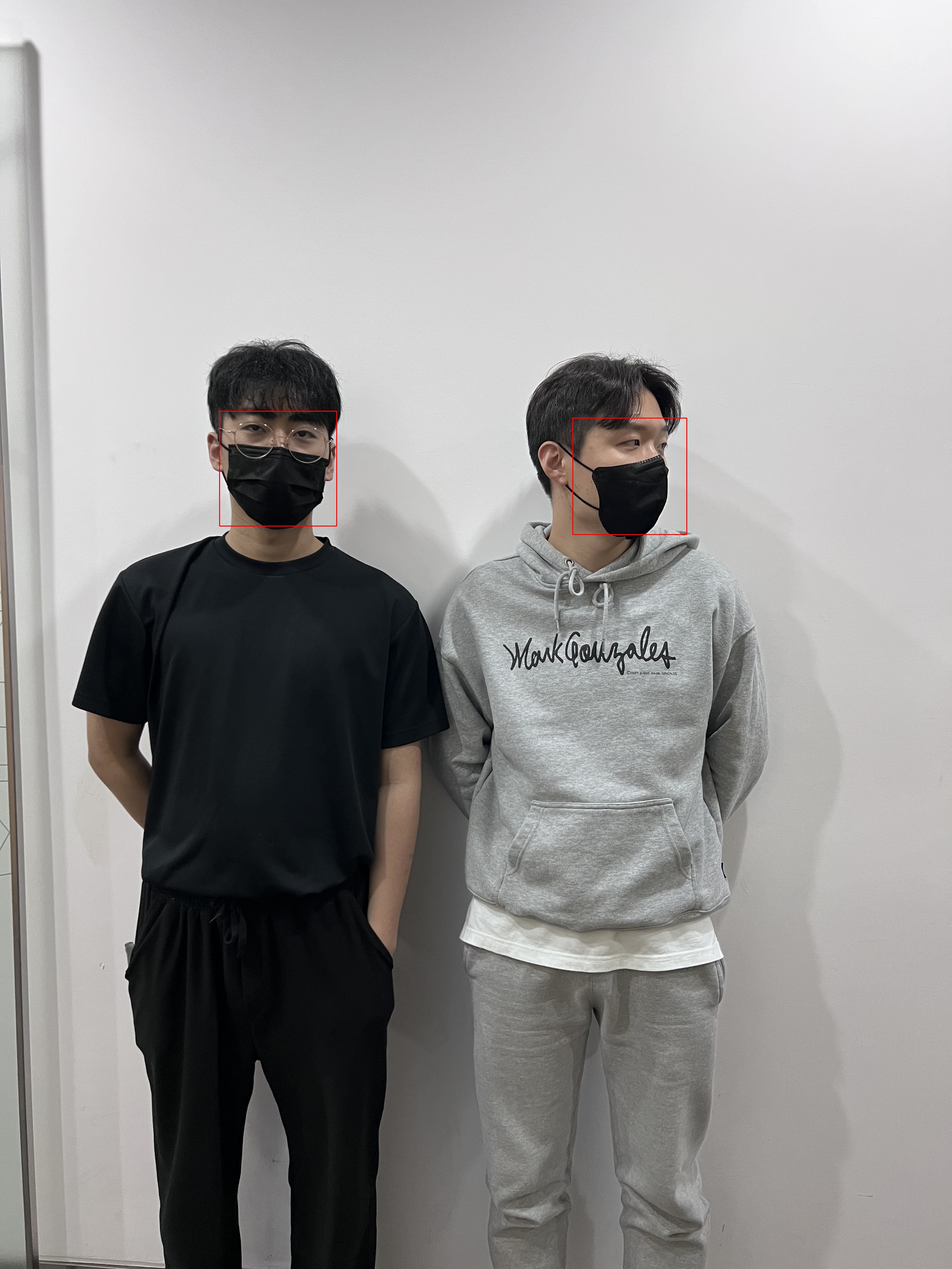
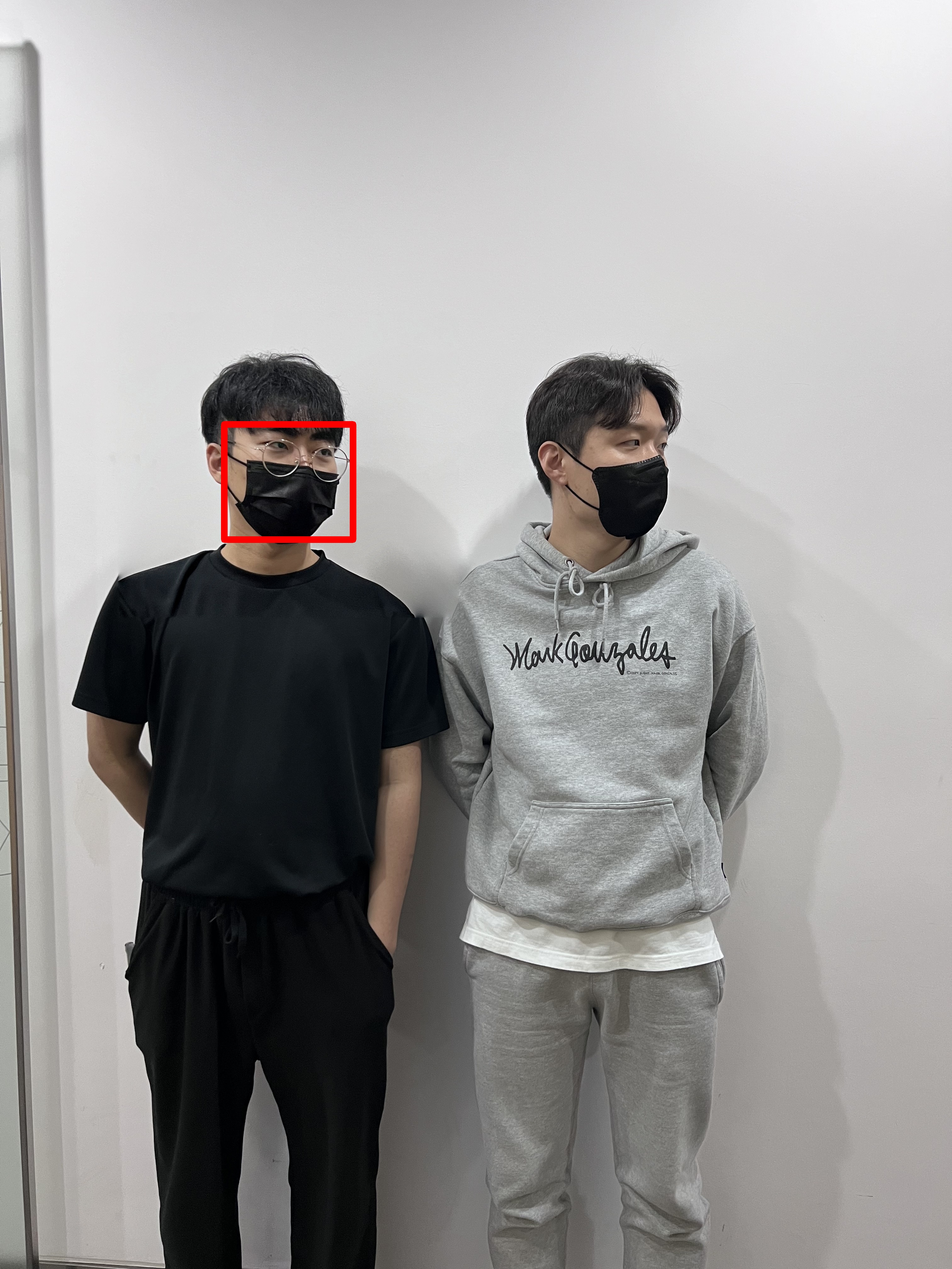
ML, front Updated

Changed region(s): [[0.1243, 0.25, 0.4663, 0.5]]

diff --git a/frontend/src/screens/Login.js b/frontend/src/screens/Login.js
@@ -12,12 +12,13 @@ import BG from '../../assets/splash.webp';
 import { PRIMARY } from '../colors';
 import { LogBox } from 'react-native';
 import axios from 'axios';
+import { flask_API } from '../AWS';
 
 LogBox.ignoreLogs([
   "[Reanimated] Couldn't determine the version of the native part of Reanimated.",
 ]);
 const Login = () => {
-  var url = 'http://172.23.253.115:5000/';
+  var url = flask_API;
 
   const [username, setUsername] = useState('');
   const [password, setPassword] = useState('');

diff --git a/ML/app.py b/ML/app.py
@@ -21,11 +21,12 @@ path_face = "images/faces_separated/"  # 얼굴 이미지 저장 경로
 path_result = "images/result_img/"  # 결과물 이미지 저장 경로
 path_boxed = "images/boxed_img/"  # 박스처리 이미지 저장 경로
 path_face_num = "images/face_num/"  # 얼굴 이미지 저장 경로
+path_pageIndex = "images/pageIndex/"  # 몇번째 얼굴 편집중인지 전달 받기위한 폴더 경로
 
 # 현우 수정
 selected_face_path = "images/want_to_modify/"  # 대체할 얼굴 이름 저장
 
-cf_names, cf_coordinates = [], []
+cf_names, cf_coordinates, main_full_coordinates, cropped_face_full_coordinates, cur, sel_idx = [], [], [], [], 0, 0
 
 
 # 로컬 폴더 정리 함수
@@ -74,9 +75,17 @@ def init_dirs():
     for file in file_list:
         os.remove(path_face_num + file)
 
+    if not os.path.isdir(path_pageIndex):
+        os.mkdir(path_pageIndex)
+    file_list = os.listdir(path_pageIndex)
+    for file in file_list:
+        os.remove(path_pageIndex + file)
+
 
 # AWS로부터 대표사진 및 선택된 사진들 불러오는 함수
 def download_from_aws():
+    global cur
+    cur = 0
     print('Collecting images')
     di = CloudPath(aws_path+"selected_imgs/")
     di.download_to(path_selected_img)
@@ -88,11 +97,6 @@ def download_from_aws():
 
     main.download_to(path_result)
     os.rename(path_result+os.listdir(path_result)[0], path_result+'result.jpg')
-
-    # 현우 수정
-    draw_face.main()
-    upload_boxed_result_to_aws()
-    print('\nred box upload completed')
 
 
 # AWS로 얼굴 사진들 업로드하는 함수
@@ -139,6 +143,8 @@ def remove_dirs():
     ri.rmtree()
     ri = CloudPath(aws_path+"pageIndex/")
     ri.rmtree()
+    ri = CloudPath(aws_path+"want_to_modify/")
+    ri.rmtree()
     print('\nRemoval Completed')
     return "FLASK: Cleanup_AWS Done"
 
@@ -160,41 +166,58 @@ def check_uploads():
 # 얼굴 crop 하고 AWS에 저장하는 함수
 @ app.route('/crop_face', methods=['GET'])
 def crop_face():
-    global cf_names, cf_coordinates
+    global cf_names, cf_coordinates, main_full_coordinates, cropped_face_full_coordinates
     init_dirs()
     download_from_aws()
     # 불러온 사진으로부터 얼굴들만 추출하여 cf_names 에 이름들, cf_coordinates에 시작좌표들 저장
-    cf_names, cf_coordinates = detect_faces_masks.main()
+    cf_names, cf_coordinates, main_full_coordinates, cropped_face_full_coordinates = detect_faces_masks.main()
+
+    draw_box(0)
 
     upload_cropped_faces()
     return "FLASK: Crop Face Done"
 
 
-# 현우 수정
-# 터치한 사진 이름 저장한 폴더를 삭제하는 함수
-@app.route('/remove_want_to_modify_dir_AWS', methods=['GET'])
-def remove_want_to_modify_dir():
-    ri = CloudPath(aws_path+"want_to_modify/")
-    ri.rmtree()
-    print('\nRemove want_to_modify_dir Completed')
-    return "Task Done"
+@app.route('/draw_box', methods=['GET'])
+def draw_box_rn():
+    draw_box(0)
+
+
+# 현재 편집중인 얼굴에 박스 그리는 함수
+def draw_box(num):
+    global cur
+    # 매실행마다 pageIndex 다운 받고 비운다
+    file_list = os.listdir(path_pageIndex)
+    for file in file_list:
+        os.remove(path_pageIndex + file)
+
+    pi = CloudPath(aws_path+"pageIndex/")
+    pi.download_to(path_pageIndex)
+
+    pi = CloudPath(aws_path+"pageIndex/")
+    pi.rmtree()
+
+    txt_list = os.listdir(path_pageIndex)
+    if len(txt_list) == 1:
+        cur = int(txt_list[0][:-4])
+
+    draw_face.main(cur, main_full_coordinates,
+                   cropped_face_full_coordinates, num, sel_idx)
+
+    # AWS에 Result 올라감
+    upload_boxed_result_to_aws()
 
 
 # 대표이미지 합성 후 업로드
-# 현우 수정
 @app.route('/combine_face', methods=['GET'])
 def combine_face():
-    # 파일 이름 가져오는 방식을 boto로 사용함
-    # 왜냐하면 cloudpath 왠진 모르겠는데 파일명 가져오는 방식에서 계속 막힘
-    # 필요하면 cloudpath로 가져오는 방식 다시 고민해봄...
-    # boto client s3부터 가져옴
+    global sel_idx
     s3 = boto3.client('s3')
 
     # "want_to_modify" 폴더를 리스트로 만듦
     result = s3.list_objects_v2(
         Bucket='bucketpresident', Prefix='want_to_modify/')
 
-    # 진짜 에러만 엄청 떠서 스트레스 받아 죽을뻔... 에러 뜨면 따로 체크하는 코드가 필요했음
     # want_to_modify 폴더 안에 당연히 파일이 들어가 있어야되는데 없을 때가 있길래... if, else 문 처리
     if 'Contents' in result:
         # 파일 네임 받는 방법
@@ -203,19 +226,17 @@ def combine_face():
         # 3. Key 값 받아옴
         # 4. Key 값을 / 기준으로 나누고 마지막거만 가져옴
         selected_face = result['Contents'][0]['Key'].split('/')[-1]
-
+        sel_idx = cf_names.index(selected_face)
         # 자연스럽게 수정해주어요
         combine.main(cf_names, cf_coordinates, selected_face)
         print('\nFace Combine Completed')
 
         # 합성한 사진위에 다시 박스그리기
-        draw_face.main()
-
-        # AWS에 Result 올라감
-        upload_boxed_result_to_aws()
+        draw_box(1)
 
         # want_to_modify 지움 나이스
-        remove_want_to_modify_dir()
+        ri = CloudPath(aws_path+"want_to_modify/")
+        ri.rmtree()
 
         return "FLASK: Combine Face Done"
     else:

diff --git a/ML/detect_faces_masks.py b/ML/detect_faces_masks.py
@@ -14,6 +14,9 @@ path_read = "images/selected_img/"
 # 저장할 경로 지정
 path_save = "images/faces_separated/"
 
+# 메인 경로지정
+path_main = "images/main_img/"
+
 
 def main():
     currentdir = os.path.dirname(os.path.realpath(__file__))
@@ -38,7 +41,7 @@ def main():
 
     net.load(model_path)
 
-    # similar 폴더로부터 파일 이름을 저장
+    # selected 폴더로부터 파일 이름을 저장
     listdir = os.listdir(path_read)
     sum = 0
 
@@ -46,6 +49,7 @@ def main():
 
     cropped_face_names_group = []  # crop 된 이미지 이름 사진단위 그룹 저장 리스트
     cropped_face_coordinates_group = []  # crop 된 이미지의 시작점 좌표값 사진단위 그룹 저장 리스트
+    cropped_face_full_coordinates_group = []
     face_imgs_group = []  # crop된 얼굴 이미지 사진단위 그룹 저장 리스트
     face_nums = []  # 얼굴 개수 저장 리스트
 
@@ -54,6 +58,7 @@ def main():
         face_imgs = []  # 잘라진 얼굴파일 임시로 저장하는 리스트
         cropped_face_names = []  # crop 된 이미지 이름 저장 리스트
         cropped_face_coordinates = []  # crop 된 이미지의 시작점 좌표값 저장 리스트
+        cropped_face_full_coordinates = []
         img_path = os.path.join(path_read, file)
         orig_image = cv2.imread(img_path)
         if orig_image is None:
@@ -94,9 +99,13 @@ def main():
             # print("Save into:", path_save + cropped_face_name)
             cropped_face_coordinates.append(
                 [face[0] - 17 * w_2, face[1] - 20 * h_2])
+            cropped_face_full_coordinates.append(
+                [face[0], face[1], face[2], face[3]])
 
         cropped_face_names_group.append(cropped_face_names)
         cropped_face_coordinates_group.append(cropped_face_coordinates)
+        cropped_face_full_coordinates_group.append(
+            cropped_face_full_coordinates)
         face_nums.append(len(c_faces))
         face_imgs_group.append(face_imgs)
 
@@ -123,8 +132,10 @@ def main():
         if len(cropped_face_coordinates_group[i]) != face_nums[main_idx]:
             cropped_face_coordinates_group[i] = cropped_face_coordinates_group[i][:face_nums[main_idx]]
             face_imgs_group[i] = face_imgs_group[i][:face_nums[main_idx]]
+            cropped_face_full_coordinates_group[i] = cropped_face_full_coordinates_group[i][:face_nums[main_idx]]
 
     cropped_face_coordinates = []
+    cropped_face_full_coordinates = []
     for i in range(len(face_imgs_group)):
         for j in range(len(face_imgs_group[i])):
             cropped_face_name = listdir[i][:-4] + "_" + str(j+1)+".jpg"
@@ -132,6 +143,12 @@ def main():
             cropped_face_names.append(cropped_face_name)
             cropped_face_coordinates.append(
                 cropped_face_coordinates_group[i][j])
-    # print(sum)
+            cropped_face_full_coordinates.append(
+                cropped_face_full_coordinates_group[i][j])
+
+    sel_list = os.listdir(path_read)
+    main_full_coordinates = cropped_face_full_coordinates_group[sel_list.index(
+        os.listdir(path_main)[0])]
+
     print('\nFace crop completed')
-    return cropped_face_names, cropped_face_coordinates
+    return cropped_face_names, cropped_face_coordinates, main_full_coordinates, cropped_face_full_coordinates

diff --git a/ML/draw_face.py b/ML/draw_face.py
@@ -1,8 +1,5 @@
-from vision.ssd.mb_tiny_RFB_fd import create_Mb_Tiny_RFB_fd, create_Mb_Tiny_RFB_fd_predictor
-from vision.ssd.config.fd_config import define_img_size
 import cv2
 import os
-import sys
 
 # 불러올 이미지 지정
 path_result = "images/result_img/"
@@ -10,49 +7,44 @@ path_result = "images/result_img/"
 # 저장할 경로 지정
 path_boxed = "images/boxed_img/"
 
+# 메인 이미지 경로
+path_main = "images/main_img/"
 
-def main():
-    currentdir = os.path.dirname(os.path.realpath(__file__))
-    parentdir = os.path.dirname(currentdir)
-    sys.path.append(parentdir)
 
-    # 기본값 지정
-    test_device = "cpu"
-    test_threshold = 0.3
-    test_candidate_size = 1200
-    test_input_size = 1280
+def main(cur, main_full_coordinates, cropped_face_full_coordinates, num, sel_idx):
+    # result 파일 불러오기
+    file = os.listdir(path_result)[0]
 
-    define_img_size(test_input_size)
+    orig_image = cv2.imread(path_result + file)
 
-    # 사용할 모델 지정
-    model_path = "pretrained/RFB-640-masked_face-v2.pth"
-    net = create_Mb_Tiny_RFB_fd(3, is_test=True, device=test_device)
-    predictor = create_Mb_Tiny_RFB_fd_predictor(
-        net, candidate_size=test_candidate_size, device=test_device)
-    net.load(model_path)
+    if num == 0:
+        xmin = int(main_full_coordinates[cur][0])
+        ymin = int(main_full_coordinates[cur][1])
+        xmax = int(main_full_coordinates[cur][2])
+        ymax = int(main_full_coordinates[cur][3])
 
-    # 파일 리스트 가져오기
-    listdir = os.listdir(path_result)
+        '''
+        height = ymax - ymin
+        width = xmax - xmin
 
-    # 각 개체에 대해 반복
-    for file in listdir:
-        img_path = os.path.join(path_result, file)
-        orig_image = cv2.imread(img_path)
-        if orig_image is None:
-            continue
-        image = cv2.cvtColor(orig_image, cv2.COLOR_BGR2RGB)
-        boxes, labels, probs = predictor.predict(
-            image, test_candidate_size / 2, test_threshold)
-        for i in range(boxes.size(0)):
-            box = boxes[i, :]
-            xmin = int(box[0])
-            ymin = int(box[1])
-            xmax = int(box[2])
-            ymax = int(box[3])
-            cv2.rectangle(orig_image, (xmin, ymin),
-                          (xmax, ymax), (0, 0, 255), 2)
+        h_2 = int(height*0.05)
+        w_2 = int(width*0.05)
 
-        cv2.imwrite(path_boxed + "boxed.jpg", orig_image)
+        ymin -= 20 * h_2
+        xmin -= 17 * w_2
+        ymax += 14 * h_2
+        xmax += 17 * w_2
+        '''
+    elif num == 1:
+        xmin = int(cropped_face_full_coordinates[sel_idx][0])
+        ymin = int(cropped_face_full_coordinates[sel_idx][1])
+        xmax = int(cropped_face_full_coordinates[sel_idx][2])
+        ymax = int(cropped_face_full_coordinates[sel_idx][3])
+
+    cv2.rectangle(orig_image, (xmin, ymin),
+                  (xmax, ymax), (0, 0, 255), 20)
+
+    cv2.imwrite(path_boxed + "boxed.jpg", orig_image)
 
 
 if __name__ == '__main__':
